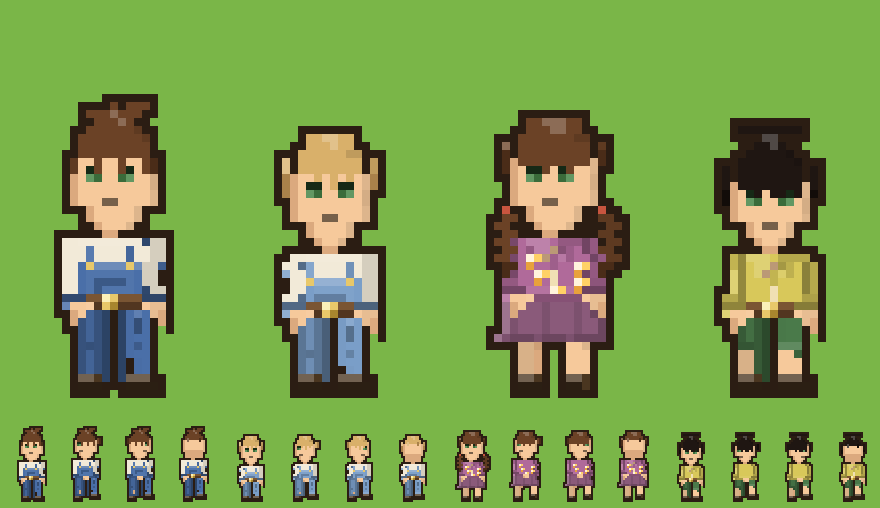
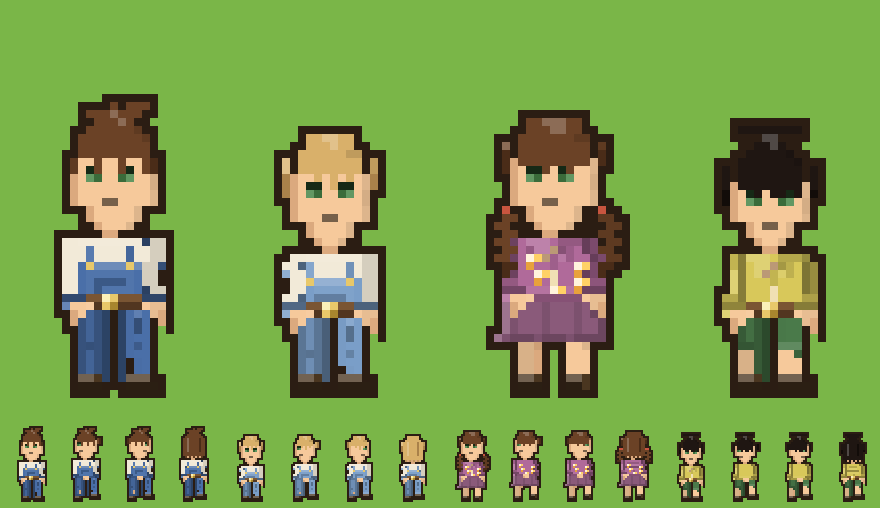
Arte v5: costas jogáveis, manga como bloco e acessórios de 2px
Nível de leitura do boneco de referência (estudo de estilo, arte 100%
original — nenhum asset copiado):

- Costas (dir up): penteado reconhecível por trás — calota até a nuca,
  nuca em zigue-zague (raspada no undercut), volume lateral, rabo/trança
  central com elástico, marias-chiquinha, coque; camisa com pala + prega
  no lugar de gola/botões; calça com bolsos traseiros.
- Manga vira bloco de tom próprio (-0.12 / -0.22) com costura -0.38/-0.42:
  o braço finalmente lê em 2x no mapa.
- Acessórios refeitos com detalhe de 2px: palha trançada com laço, boné
  com gomos/aba/botão, bandana com poás e nó, flor 3x3 com miolo e folha,
  marinheiro com fita, óculos com aro/lente/brilho, mago com faixa e
  estrelas; colar com corrente + pingente 2x2; pulseira com berloque.
- Pranchas novas: costas (26 penteados de trás) e chapéus (7 em 7x).

diff --git a/client/js/art/rig.js b/client/js/art/rig.js
@@ -541,6 +541,14 @@ export function drawPants(g, m, dir, frame, pants, skin, style = "long", opts = 
   px(g, CX - Math.floor(m.hipW / 2) + 2, waistY, 1, 2, shade(pants, -0.5));
   px(g, CX + Math.floor(m.hipW / 2) - 3, waistY, 1, 2, shade(pants, -0.5));
 
+  // ---- bolsos traseiros (a costas também aparece no jogo) ----
+  if (dir === "up" && style !== "skirt") {
+    for (const bx of [x0 + 1, x0 + legW + gap + 1]) {
+      px(g, bx, hipY + 2, 2, 2, shade(pants, -0.3));
+      px(g, bx, hipY + 2, 2, 1, shade(pants, 0.1));
+    }
+  }
+
   // ---- pernas ----
   const lenPx = legLen - 1;
   const kneeY = hipY + Math.round(lenPx * 0.52);
@@ -624,14 +632,16 @@ export function drawShirt(g, m, dir, frame, shirt, shirtDark, design = "solid", 
     if (i === h - 1) px(g, r.ox + 1, y0 + i, r.ow - 2, 1, shade(shirt, -0.2));
     if (i === h - 2) px(g, r.ox + 1, y0 + i, r.ow - 2, 1, shade(shirt, 0.06));
     if (r.armW) {
-      // braço esquerdo: lado de fora na luz, lado de dentro na sombra
-      px(g, r.tx - r.armW, y0 + i, r.armW, 1, i < 2 ? shade(shirt, -0.1) : shade(shirt, -0.04));
+      // manga é bloco de tom próprio (como na referência): sem isso o braço
+      // some no tronco quando o sprite é visto em 2x no mapa
+      px(g, r.tx - r.armW, y0 + i, r.armW, 1, i < 2 ? shade(shirt, -0.16) : shade(shirt, -0.12));
       px(g, r.tx - r.armW, y0 + i, 1, 1, i < 2 ? mid : light);
       // costura de junção com o tronco (é o que faz o braço aparecer)
-      px(g, r.tx - 1, y0 + i, 1, 1, shade(shirt, -0.32));
-      px(g, r.tx + r.tw, y0 + i, 1, 1, shade(shirt, -0.36));
-      // braço direito: lado de fora na sombra
-      px(g, r.tx + r.tw + 1, y0 + i, Math.max(0, r.armW - 1), 1, shade(shirt, -0.16));
+      px(g, r.tx - 1, y0 + i, 1, 1, shade(shirt, -0.38));
+      px(g, r.tx + r.tw, y0 + i, 1, 1, shade(shirt, -0.42));
+      // braço direito: bloco ainda mais escuro (luz vem da esquerda)
+      px(g, r.tx + r.tw + 1, y0 + i, Math.max(0, r.armW - 1), 1, i < 2 ? shade(shirt, -0.26) : shade(shirt, -0.22));
+      px(g, r.tx + r.tw + 1, y0 + i, 1, 1, shade(shirt, -0.3));
     }
   }
 
@@ -653,7 +663,14 @@ export function drawShirt(g, m, dir, frame, shirt, shirtDark, design = "solid", 
   // ---- gola ----
   const cw = Math.max(3, Math.round(m.shoulderW * 0.32));
   const collar = opts.collar || "v";
-  if (!side) {
+  const up = dir === "up";
+  if (up) {
+    // costas: pala de ombro a ombro + prega central (o avesso da carcela)
+    px(g, CX - Math.floor(m.shoulderW / 2) + 1, y0 + 3, m.shoulderW - 2, 1, shade(shirt, -0.3));
+    px(g, CX - Math.floor(m.shoulderW / 2) + 1, y0 + 4, m.shoulderW - 2, 1, shade(shirt, 0.08));
+    px(g, CX, y0 + 5, 1, Math.max(3, h - 7), shade(shirt, -0.18));
+  }
+  if (!side && !up) {
     const skinD = shade(opts.skin || "#e8b98c", -0.24);
     if (collar === "round") {
       // gola redonda: arco de 1px com sombra interna
@@ -1088,10 +1105,65 @@ export function drawHairRig(g, m, dir, style, hair, hairDark, opts = {}) {
       }
     }
   } else {
-    // nuca: cabelo cobre o crânio inteiro
-    put(hx + 1, hy, hw - 2);
-    px(g, hx + 2, hy + 1, 1, 2, light);
-    px(g, hx + hw - 3, hy + 1, 1, 2, dark);
+    // ---- costas: o penteado precisa ser reconhecível por trás ----
+    for (let y = top; y <= hy + hh - 3; y++) {
+      const fromTop = y - top;
+      let inset = Math.min(Math.ceil(hw / 2) - 1, Math.max(0, crown - fromTop + 1));
+      if (fromTop === 0) inset = Math.min(inset, 2);
+      put(hx + inset, y, hw - inset * 2);
+    }
+    px(g, hx + 2, hy + 1, 1, Math.max(2, hh - 5), light);
+    px(g, hx + hw - 3, hy + 1, 1, Math.max(2, hh - 5), dark);
+    // nuca em zigue-zague (fios, não régua reta), com variações por penteado
+    const nl = hy + hh - 3;
+    if (cfg.shaved) {
+      px(g, hx + 2, nl, hw - 4, 2, shade(hair, -0.55));   // nuca raspada
+    } else {
+      for (let x = hx + 1; x < hx + hw - 1; x++) if (x % 2 === 0) px(g, x, nl + 1, 1, 1, midtone);
+      if (cfg.fringe === "side") px(g, hx + 2, nl + 1, 2, 1, midtone);   // pixie
+      if (cfg.tufts) {                                                   // desgrenhado
+        px(g, hx + 3, nl + 2, 1, 1, midtone);
+        px(g, hx + hw - 4, nl + 2, 1, 1, midtone);
+      }
+    }
+    // volume lateral caindo por trás do ombro
+    if (cfg.back >= 4) {
+      const bl = cfg.back;
+      for (let i = 0; i < bl; i++) {
+        const y = hy + 2 + i;
+        const wo = cfg.wavy ? i % 2 : 0;
+        const flare = i > bl - 3 ? 1 : 0;
+        px(g, hx - 2 - wo - flare, y, 2, 1, i > bl - 2 ? dark : midtone);
+        px(g, hx + hw + wo + flare, y, 2, 1, i > bl - 2 ? dark : hair);
+      }
+    }
+    // rabo / trança no meio das costas, com elástico
+    if (cfg.tail || cfg.ponySide || cfg.braid || cfg.braidOver) {
+      const tl = Math.max(5, cfg.back || 6);
+      px(g, CX - 2, nl - 1, 4, 1, "#c9553f");
+      for (let i = 0; i < tl; i++) {
+        const y = nl + i;
+        const notch = (cfg.braid || cfg.braidOver) && i % 2 === 1;
+        px(g, CX - 1 + (notch ? 1 : 0), y, 2, 1, notch ? midtone : hair);
+        px(g, CX - 1, y, 1, 1, notch ? hair : light);
+      }
+      px(g, CX - 1, nl + tl, 1, 1, dark);
+    }
+    // marias-chiquinha vistas de trás
+    if (cfg.twins || cfg.twinsOver) {
+      for (const tx of [hx - 2, hx + hw]) {
+        px(g, tx, nl - 3, 2, 1, "#c9553f");
+        for (let i = 0; i < 6; i++) {
+          px(g, tx + (i % 2 ? (tx < CX ? -1 : 1) : 0), nl - 2 + i, 2, 1, i > 4 ? dark : hair);
+        }
+      }
+    }
+    if (cfg.bun) {
+      const bw = 2 + (cfg.bun > 2 ? 1 : 0);
+      const by = Math.max(0, top - bw + 1);
+      px(g, CX - Math.floor(bw / 2), by, bw, bw, hair);
+      px(g, CX - Math.floor(bw / 2), by, 1, 1, light);
+    }
   }
 
   // ---- mechas laterais (emolduram o rosto) ----
@@ -1255,29 +1327,52 @@ export function drawHatRig(g, m, dir, hat) {
       px(g, hx - 1, hy + 1, hw + 2, 1, dark);
       px(g, hx - 2, hy, 2, 1, light);
       px(g, hx + hw, hy, 2, 1, light);
+      // trançado da palha: tracinhos na copa + laço da fita
+      for (let x = hx + 2; x < hx + hw - 2; x += 3) px(g, x, hy - 3, 1, 1, shade(c, -0.12));
+      for (let x = hx; x < hx + hw + 2; x += 4) px(g, x, hy, 1, 1, light);
+      px(g, hx + hw - 3, hy - 2, 2, 1, light);
+      px(g, hx + hw - 3, hy - 1, 1, 1, shade(c2, -0.2));
       return;
     }
     case "cap": {
       px(g, hx, hy - 2, hw, 2, c);
       px(g, hx + 1, hy - 3, hw - 2, 1, c);
       px(g, hx + 2, hy - 3, 2, 1, light);
-      if (side) px(g, dir === "right" ? hx + hw : hx - 2, hy - 1, 2, 1, dark);
-      else px(g, hx + Math.floor(hw / 2), hy, hw, 1, dark);
+      px(g, CX, hy - 4, 1, 1, light);                 // botão do topo
+      px(g, hx + 2, hy - 2, 1, 2, shade(c, -0.14));  // gomo central
+      px(g, hx + hw - 3, hy - 2, 1, 2, shade(c, -0.14));
+      if (side) {
+        px(g, dir === "right" ? hx + hw : hx - 3, hy - 1, 3, 1, dark);
+        px(g, dir === "right" ? hx + hw : hx - 3, hy, 2, 1, shade(c, -0.42));
+      } else {
+        px(g, hx - 1, hy, hw + 2, 1, dark);           // aba de frente
+        px(g, hx - 1, hy, hw + 2, 1, shade(c, -0.4));
+        px(g, hx, hy - 1, hw, 1, shade(c, -0.2));
+      }
       return;
     }
     case "bandana": {
       px(g, hx, hy - 2, hw, 2, c);
       px(g, hx + 1, hy - 3, hw - 2, 1, c);
       px(g, hx + 2, hy - 2, 2, 1, light);
+      for (let x = hx + 1; x < hx + hw - 1; x += 3) px(g, x, hy - 1, 1, 1, "#fff3d6"); // poás
       px(g, hx + hw - 1, hy, 2, 1, c);
       px(g, hx + hw, hy + 1, 1, 2, c2);
+      px(g, hx + hw + 1, hy + 2, 1, 2, c);            // pontas do nó
+      px(g, hx + hw, hy, 1, 1, light);                // nó
       return;
     }
     case "flower": {
       px(g, hx, hy - 2, hw, 2, c);
       px(g, hx + 1, hy - 3, hw - 2, 1, c);
-      px(g, hx + hw - 3, hy - 4, 2, 2, c2);
-      px(g, hx + hw - 3, hy - 4, 1, 1, "#fff3d6");
+      // flor de 3x3: pétalas claras, miolo amarelo, folha verde
+      const fx = hx + hw - 4;
+      px(g, fx, hy - 5, 3, 1, c2);
+      px(g, fx, hy - 4, 1, 1, c2);
+      px(g, fx + 2, hy - 4, 1, 1, c2);
+      px(g, fx + 1, hy - 4, 1, 1, "#ffd166");
+      px(g, fx, hy - 3, 3, 1, c2);
+      px(g, fx - 1, hy - 4, 1, 1, "#6a9a4a");
       px(g, hx + 2, hy - 3, 1, 1, light);
       return;
     }
@@ -1285,15 +1380,23 @@ export function drawHatRig(g, m, dir, hat) {
       px(g, hx + 1, hy - 2, hw - 2, 2, c);
       px(g, hx + 3, hy - 3, Math.max(2, hw - 6), 1, c);
       px(g, hx + 2, hy - 3, 2, 1, "#ffffff");
+      px(g, hx + hw - 4, hy - 3, 2, 1, "#ffffff");
       px(g, hx + 1, hy, hw - 2, 1, "#2f4a6b");
+      px(g, CX - 1, hy - 1, 2, 1, "#c0505f");          // fita
+      px(g, CX - 2, hy - 1, 1, 1, "#e88a9a");
+      px(g, CX + 1, hy - 1, 1, 1, "#e88a9a");
       return;
     }
     case "goggles": {
       px(g, hx + 1, hy - 2, hw - 2, 2, c);
-      px(g, hx + 2, hy - 1, 2, 2, "#bfe6f2");
-      px(g, hx + hw - 4, hy - 1, 2, 2, "#bfe6f2");
-      px(g, hx + 2, hy - 1, 1, 1, "#ffffff");
-      px(g, hx + hw - 4, hy - 1, 1, 1, "#ffffff");
+      px(g, hx, hy - 1, 1, 2, shade(c, -0.3));         // tira lateral
+      px(g, hx + hw - 1, hy - 1, 1, 2, shade(c, -0.3));
+      for (const lx of [hx + 2, hx + hw - 4]) {
+        px(g, lx - 1, hy - 1, 4, 2, shade(c, -0.42));  // aro
+        px(g, lx, hy - 1, 2, 2, "#bfe6f2");            // lente
+        px(g, lx, hy - 1, 1, 1, "#ffffff");            // brilho
+        px(g, lx + 1, hy, 1, 1, "#8fc4d8");
+      }
       return;
     }
     case "wizard": {
@@ -1302,7 +1405,10 @@ export function drawHatRig(g, m, dir, hat) {
       px(g, hx + 1, hy - 4, hw - 2, 2, c);
       px(g, hx - 1, hy - 2, hw + 2, 2, c);
       px(g, hx - 2, hy, hw + 4, 1, dark);
-      px(g, hx + 3, hy - 3, 1, 1, "#ffe9a8");
+      px(g, hx - 1, hy - 2, hw + 2, 1, c2);            // faixa do cone
+      px(g, hx + 3, hy - 3, 1, 1, "#ffe9a8");          // estrela
+      px(g, hx + hw - 4, hy - 5, 1, 1, "#ffe9a8");
+      px(g, hx + 2, hy - 6, 1, 1, light);
       return;
     }
     default:
@@ -1405,13 +1511,20 @@ function drawParts(g, spec, dir, frame, tool) {
   drawHatRig(g, m, dir, spec.hat);
   if (spec.necklace && !m.bundle) {
     const L = limbs(m);
-    px(g, CX - 1, L.shoulder, 2, 1, spec.necklace);
+    const gem = spec.necklace;
+    const chain = shade(gem, -0.35);
+    px(g, CX - 2, L.shoulder, 5, 1, chain);            // corrente
+    px(g, CX - 1, L.shoulder + 1, 3, 1, chain);
+    px(g, CX - 1, L.shoulder + 2, 2, 2, gem);          // pingente 2x2
+    px(g, CX - 1, L.shoulder + 2, 1, 1, shade(gem, 0.3));
   }
   if (spec.cane) drawCane(g, m, dir, spec.cane === true ? "#8a6a42" : spec.cane);
   if (spec.bracelet && m.armW > 0 && !m.bundle) {
     const L = limbs(m);
     const sp2 = armSpans(m, Math.round(m.torsoH * 0.6));
-    px(g, sp2.axL, L.shoulder + Math.round((L.hip - L.shoulder) * 0.62), m.armW, 1, spec.bracelet);
+    const wy = L.shoulder + Math.round((L.hip - L.shoulder) * 0.62);
+    px(g, sp2.axL, wy, m.armW, 1, spec.bracelet);
+    px(g, sp2.axL + m.armW - 1, wy + 1, 1, 1, shade(spec.bracelet, 0.3));  // berloque
   }
   if (tool) drawToolRig(g, m, dir, tool);
   return m;

diff --git a/docs/ART_STYLE_GUIDE.md b/docs/ART_STYLE_GUIDE.md
@@ -15,6 +15,9 @@ Pixel art acolhedora e original: paleta quente (verde-oliva, madeira, pergaminho
 - **Cabeça oval em 3 degraus** (3/2/1 px de recuo no topo e no queixo) e pescoço de 1px. A cabeça continua grande em todas as fases (11–14px de altura), o que dá a leitura "cozy" sem virar chibi.
 - Rosto no modelo dos bonecos da referência (estudo de sprites 16×32): **pálpebra escura de 1px em cima** (`shade(eyeColor, -0.62)`), fileira de baixo com **íris colorida no canto externo, pupila escura no centro e esclera sombreada no interno**; olho sempre com 2 linhas (3×2, ou 2×2 quando `headW < 12`), separação de 2–3px. **Sem nariz no boneco** (a essa altura nariz é ruído); sobrancelha suave (`mixc(cabelo, pele, 0.35)`) 1px acima da pálpebra; boca de 2px; **bochecha sólida** `mixc(pele, #e2766a, 0.3)` quando `headW >= 12`. Retrato 56×56 continua com arte própria e mais detalhe.
 - Cabelo com silhueta de verdade: franja em **zigue-zague por coluna** (mapas de profundidade por tipo: full, jagged, parted, side, sweep, spiky, curly), topo do crânio arredondado (inset ≤2 na primeira linha, degrau na têmpora), mechas laterais com ponta escalonada, **volume atrás** que cai por trás do ombro com onda e abertura na ponta (back ≥4), **mechas da frente por cima do peito** (`locks`) e brilho de 2 linhas no alto. 26 penteados, incluindo bob_chic, rabo lateral com elástico, duas marias à frente, trança no ombro, cacheado curto e ondulado longo.
+- **Costas jogáveis**: a vista de trás (`dir = "up"`) mostra o penteado inteiro — calota até a nuca, nuca em zigue-zague (ou raspada no undercut), volume lateral, rabo/trança no meio das costas com elástico, marias-chiquinha e coque; a camisa troca gola/botões por **pala + prega central** e a calça ganha **bolsos traseiros**.
+- **Manga é bloco de tom próprio** (`-0.12` esquerda, `-0.22` direita) com costura de `-0.38/-0.42` na junção: é o que faz o braço ler em 2x no mapa, como na referência.
+- **Acessórios com detalhe de 2px**: palha com trançado e laço da fita, boné com gomos/aba/botão, bandana com poás e nó de pontas, flor 3×3 com miolo e folha, marinheiro com fita, óculos com aro/lente/brilho e tira lateral, chapéu de mago com faixa e estrelas; colar com corrente + pingente 2×2 e pulseira com berloque.
 - Mão em **luvinha**: polegar de 1px voltado ao corpo, borda externa sombreada e ponta afinada com fresta entre dedos — nunca um quadrado do tamanho da manga.
 - Silhueta do tronco desenhada por **uma única peça** (`silRow`): trapézio ombro → cintura → quadril com o braço fundido (sem fresta escura entre braço e peito). O braço tem **1px de costura escura na junção** (`shade(shirt, -0.32)`) e lado externo na luz, senão some no tronco. Manga comprida até o punho na altura do quadril e **mão de pele** desenhada depois (`drawHands`), 2px com canto arredondado.
 - Detalhes de roupa: gola em V/redonda/botão com abas, carcela, botões de 1px, bolso do peito com aba, costura no ombro, punho de 2 linhas, **cinto com fivela de 2×2 e passantes** por cima da barra (não em saias). Calça com cinto, bolso dianteiro, joelho, bainha clara e vão entre as pernas com 1px de contorno.

diff --git a/docs/PROJECT_STATE.md b/docs/PROJECT_STATE.md
@@ -34,7 +34,7 @@ Atualizado: **2026-10-23 (6)** • branch `arena/99b3550e-jogo` • servidor em 
 | 23 | Construir casa para o novo jogador / dar a própria casa | **CONCLUÍDA** | `buildHouse{forUser}` cobra `HOUSE_BUILD_COST` (1800 + 20 madeira + 15 pedra) e cria no lote livre; `giveHouse{toUser}` transfere a propriedade e limpa acessos. Ambos testados em `test/houses.test.js` (inclui recusa de quem já tem casa). |
 | 24 | Badge do topo e título do cômodo legíveis | **CONCLUÍDA** | `currentLocation()` agora usa `REGION_DEFS` para qualquer região ≠ vale (caverna mostrava "Sua Fazenda"); o chip do cômodo saiu de y=14 (atrás do HUD) para y=96, e o banner mostra "Casa de Ana"/"Apartamento de Ana" em vez de `casa:casa_1`. Verificado em screenshot. |
 
-| 25 | Arte dos corpos no padrão da referência (image-1) | **CONCLUÍDA (aguardando ok visual)** | Rig **24×48** (`RIG_SCALE=2`, 52×98 na tela) reescrito em v3: **4 variantes por idade**, silhueta única `silRow` (trapézio ombro→cintura→quadril, braço fundido), manga até o punho + mão de pele, pernas com vão em contorno e bota, olho com pálpebra escura + íris/pupila (modelo dos bonecos SD, sem nariz), bochecha sólida, 26 penteados com franja zig-zag e mechas no peito, mão em luvinha com polegar, cinto com fivela, cabelo em calota + franja + mecha lateral (23 estilos), 13 estampas de camisa com gola/carcela/punho, chapéus e bengala redesenhados, cache `rig3:`. Evidência: `docs/imagens/rig-idades-2026-10-23.png`, `rig-pecas-2026-10-23.png`, `rig-no-mapa-2026-10-23.png`. |
+| 25 | Arte dos corpos no padrão da referência (image-1) | **CONCLUÍDA (aguardando ok visual)** | Rig **24×48** (`RIG_SCALE=2`, 52×98 na tela) reescrito em v3: **4 variantes por idade**, silhueta única `silRow` (trapézio ombro→cintura→quadril, braço fundido), manga até o punho + mão de pele, pernas com vão em contorno e bota, olho com pálpebra escura + íris/pupila (modelo dos bonecos SD, sem nariz), bochecha sólida, 26 penteados com franja zig-zag, mechas no peito e penteado reconhecível de costas, manga como bloco de tom próprio (braço lê em 2x), acessórios com detalhe de 2px, cinto com fivela, cabelo em calota + franja + mecha lateral (23 estilos), 13 estampas de camisa com gola/carcela/punho, chapéus e bengala redesenhados, cache `rig3:`. Evidência: `docs/imagens/rig-idades-2026-10-23.png`, `rig-pecas-2026-10-23.png`, `rig-no-mapa-2026-10-23.png`. |
 
 ## Testes (executados agora)
 
